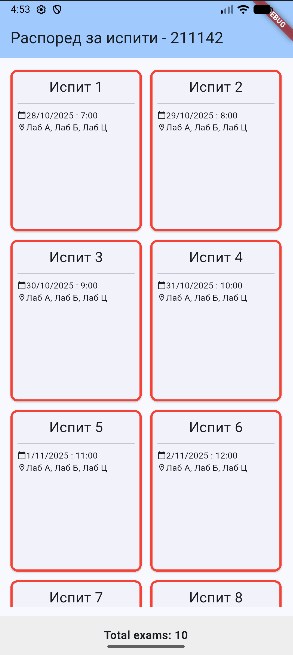
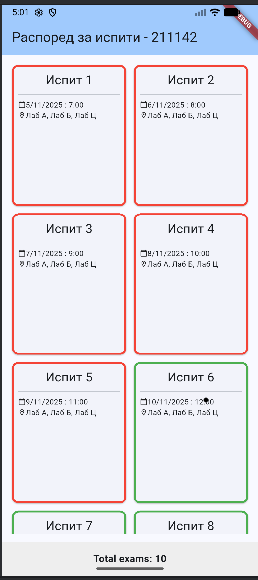
added app pictures

Changed region(s): [[0.0, 0.0, 1.0, 1.0]]

diff --git a/lib/screens/home.dart b/lib/screens/home.dart
@@ -17,7 +17,7 @@ class _MyHomePageState extends State<MyHomePage> {
     return Exam(
       id: index,
       name: "Испит ${index + 1}",
-      date: DateTime(2025, 10, index + 28,7 + index),
+      date: DateTime(2025, 11, index + 5,7 + index),
       places: ["Лаб А", "Лаб Б", "Лаб Ц"],
     );
   });

diff --git a/README.md b/README.md
@@ -18,3 +18,4 @@ samples, guidance on mobile development, and a full API reference.
 
 ![Screenshot of home screen](pictures/home_screen.png)
 ![Screenshot of details screen](pictures/details_screen.png)
+![Screenshot of details screen](pictures/details_screen_2.png)
